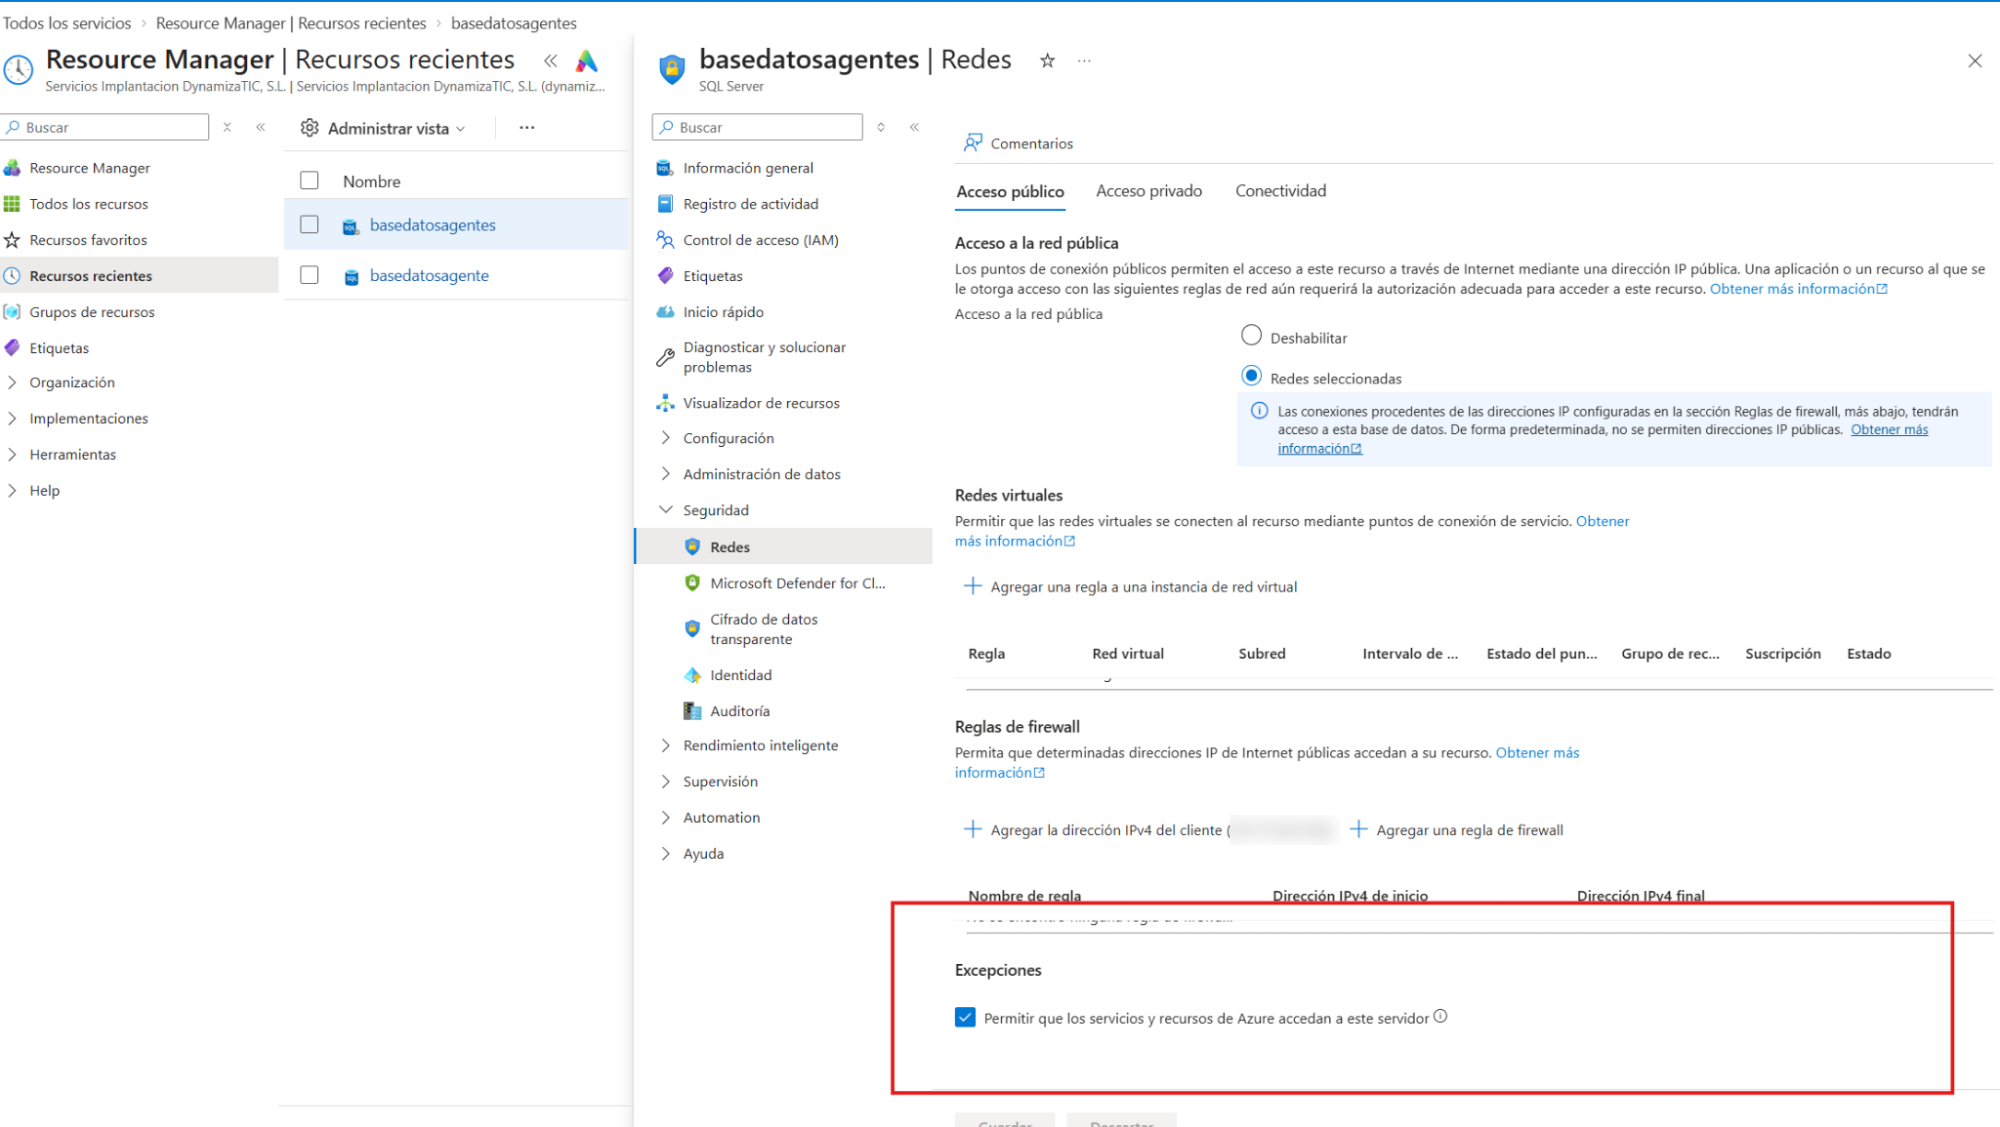
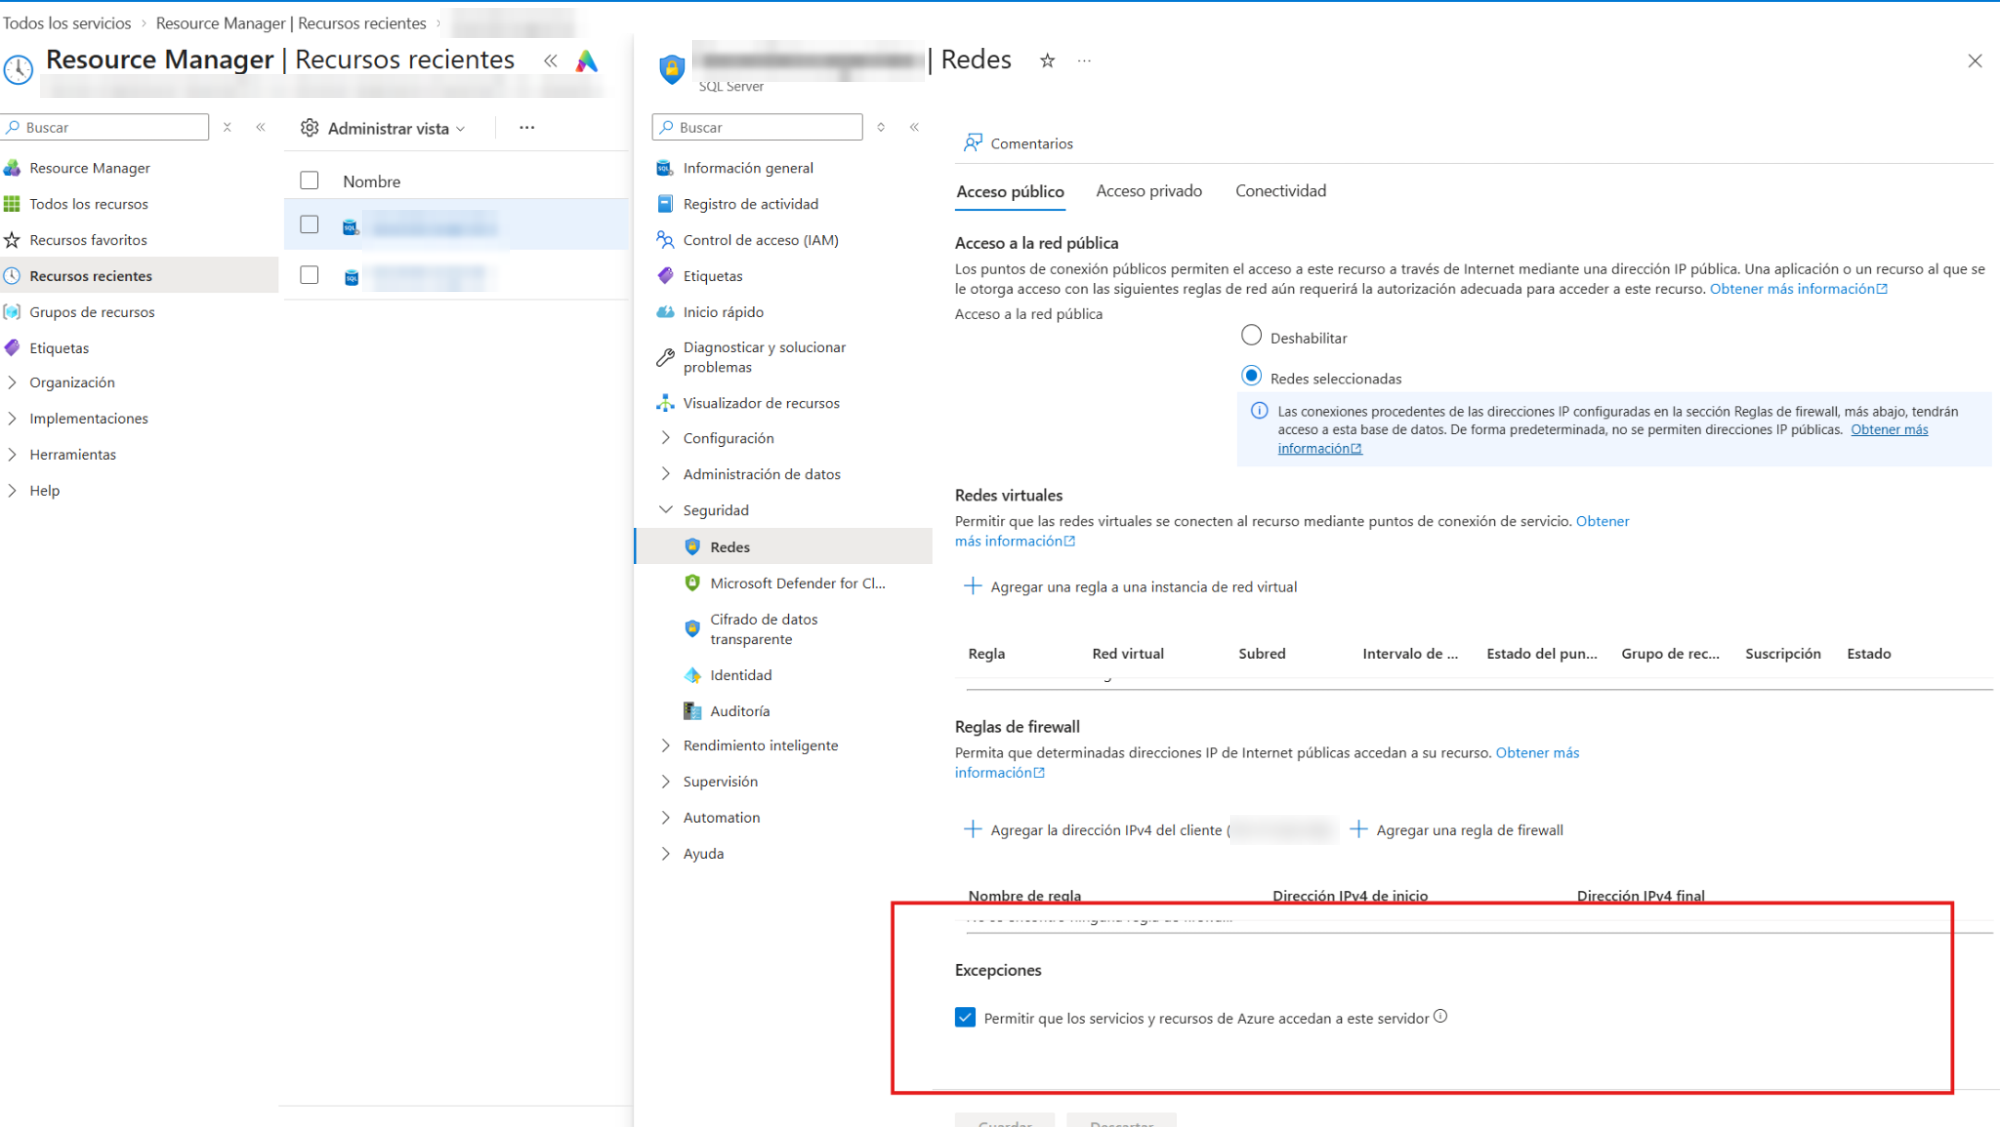
post: ofuscar nombres de servidor, base, tenant y conexión en el artículo de Copilot Studio y Azure SQL
Claude-Session: https://claude.ai/code/session_0145GeuDAaD37aCdUNXrq14A

diff --git a/_posts/2026-11-10-copilot-studio-azure-sql-entidad-servicio.md b/_posts/2026-11-10-copilot-studio-azure-sql-entidad-servicio.md
@@ -49,7 +49,7 @@ Tampoco uso las credenciales de cada usuario final: las consultas son siempre la
 
 Antes de tocar Copilot Studio, conviene dejar la base de datos accesible y verificada. Si algo falla aquí, el error aparecerá después en el agente y será mucho más difícil de diagnosticar.
 
-1. **Confirma servidor y base.** En la *Información general* de la base, copia el FQDN completo del servidor (`basedatosagentes.database.windows.net`) y el nombre de la base (`basedatosagente`, casi igual que el servidor, así que cuidado al copiarlos) y comprueba que la base está **Online**. Si es *serverless* y estaba en pausa, espera a que se reanude.
+1. **Confirma servidor y base.** En la *Información general* de la base, copia el FQDN completo del servidor (`<servidor>.database.windows.net`) y el nombre de la base, y comprueba que la base está **Online**. Si es *serverless* y estaba en pausa, espera a que se reanude.
 2. **Configura el administrador de Microsoft Entra.** En el recurso **SQL server** (no en la base), ve a *Configuración → Microsoft Entra ID → Establecer administrador*. Mejor un grupo administrado que una cuenta personal. Sin este paso no podrás crear usuarios de Entra dentro de la base.
 3. **Abre la red para la prueba.** En *Redes*, selecciona **Redes seleccionadas** y activa la excepción **Permitir que los servicios y recursos de Azure accedan a este servidor**.
 
@@ -151,7 +151,7 @@ Si se deja en *Cuenta de usuario final*, a cada usuario se le podría pedir que 
 
 ### Servidor y base fijos
 
-Si dejas el servidor y la base en **Rellenar con IA**, el modelo decide por su cuenta cómo llegar a los datos. En una de las pruebas, con el servidor puesto sin el FQDN (`basedatosagentes`), pedí «lista las facturas» y el agente optó por descubrir primero las bases de datos del servidor:
+Si dejas el servidor y la base en **Rellenar con IA**, el modelo decide por su cuenta cómo llegar a los datos. En una de las pruebas, con el servidor puesto solo con su nombre corto, sin `.database.windows.net`, pedí «lista las facturas» y el agente optó por descubrir primero las bases de datos del servidor:
 
 ![Panel de prueba de Copilot Studio con timeout al intentar listar las bases de datos](05-timeout-list-databases.png){: w="1011" h="785" .shadow }
 *El agente llama a List the databases con el nombre corto del servidor y la operación acaba en timeout a los 60 segundos.*
@@ -163,7 +163,7 @@ La solución es quitarle esa decisión. En **Entradas**, cambia **Nombre del ser
 
 Dos detalles:
 
-- Usa siempre el nombre completo `*.database.windows.net`, nunca solo `basedatosagentes`.
+- Usa siempre el nombre completo `*.database.windows.net`, nunca solo el nombre corto del servidor.
 - El aviso *No se han podido cargar las opciones* no impide escribir el nombre de la base a mano.
 
 ## Fase D: la consulta y las pruebas
@@ -201,7 +201,7 @@ La descripción de la herramienta es lo que lee el modelo para decidir cuándo u
 
 ```text
 Ejecuta una consulta SQL de solo lectura y previamente definida sobre
-la base basedatosagente. Úsala únicamente para consultar facturas
+la base <nombre-de-la-base>. Úsala únicamente para consultar facturas
 cuando estén disponibles los parámetros obligatorios. No inventes
 servidor, base, tablas ni SQL alternativo.
 ```
